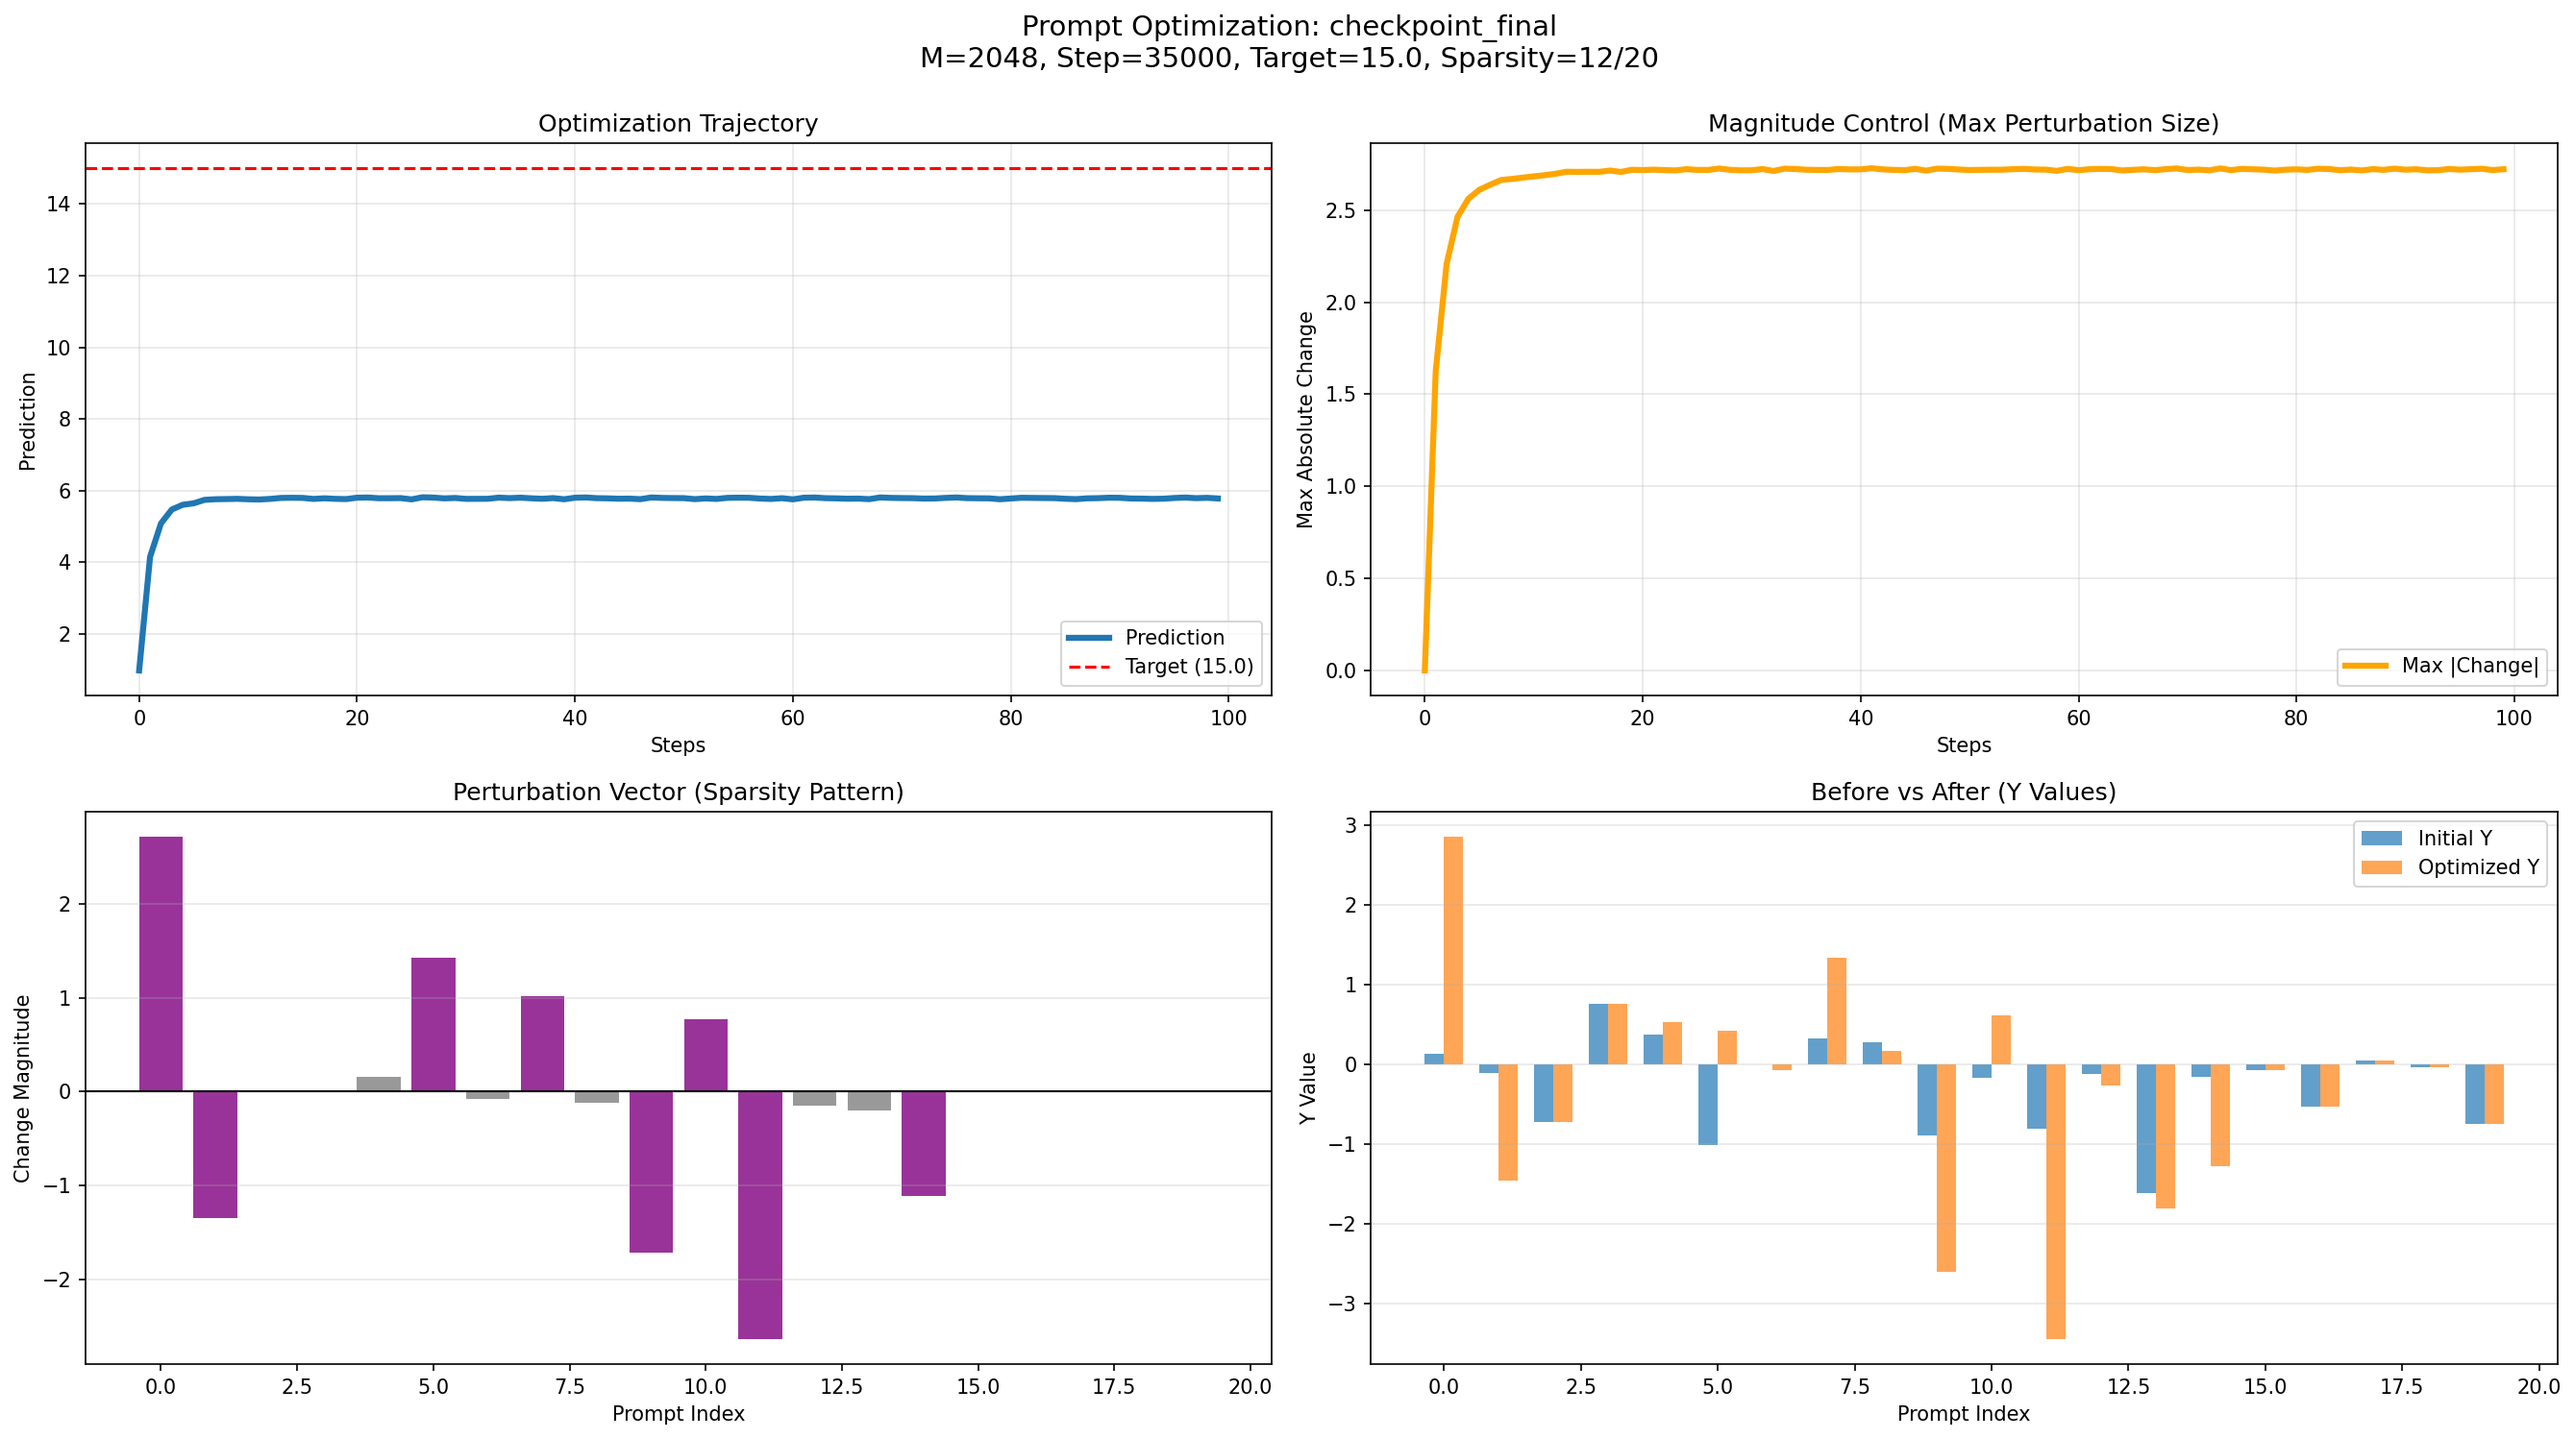
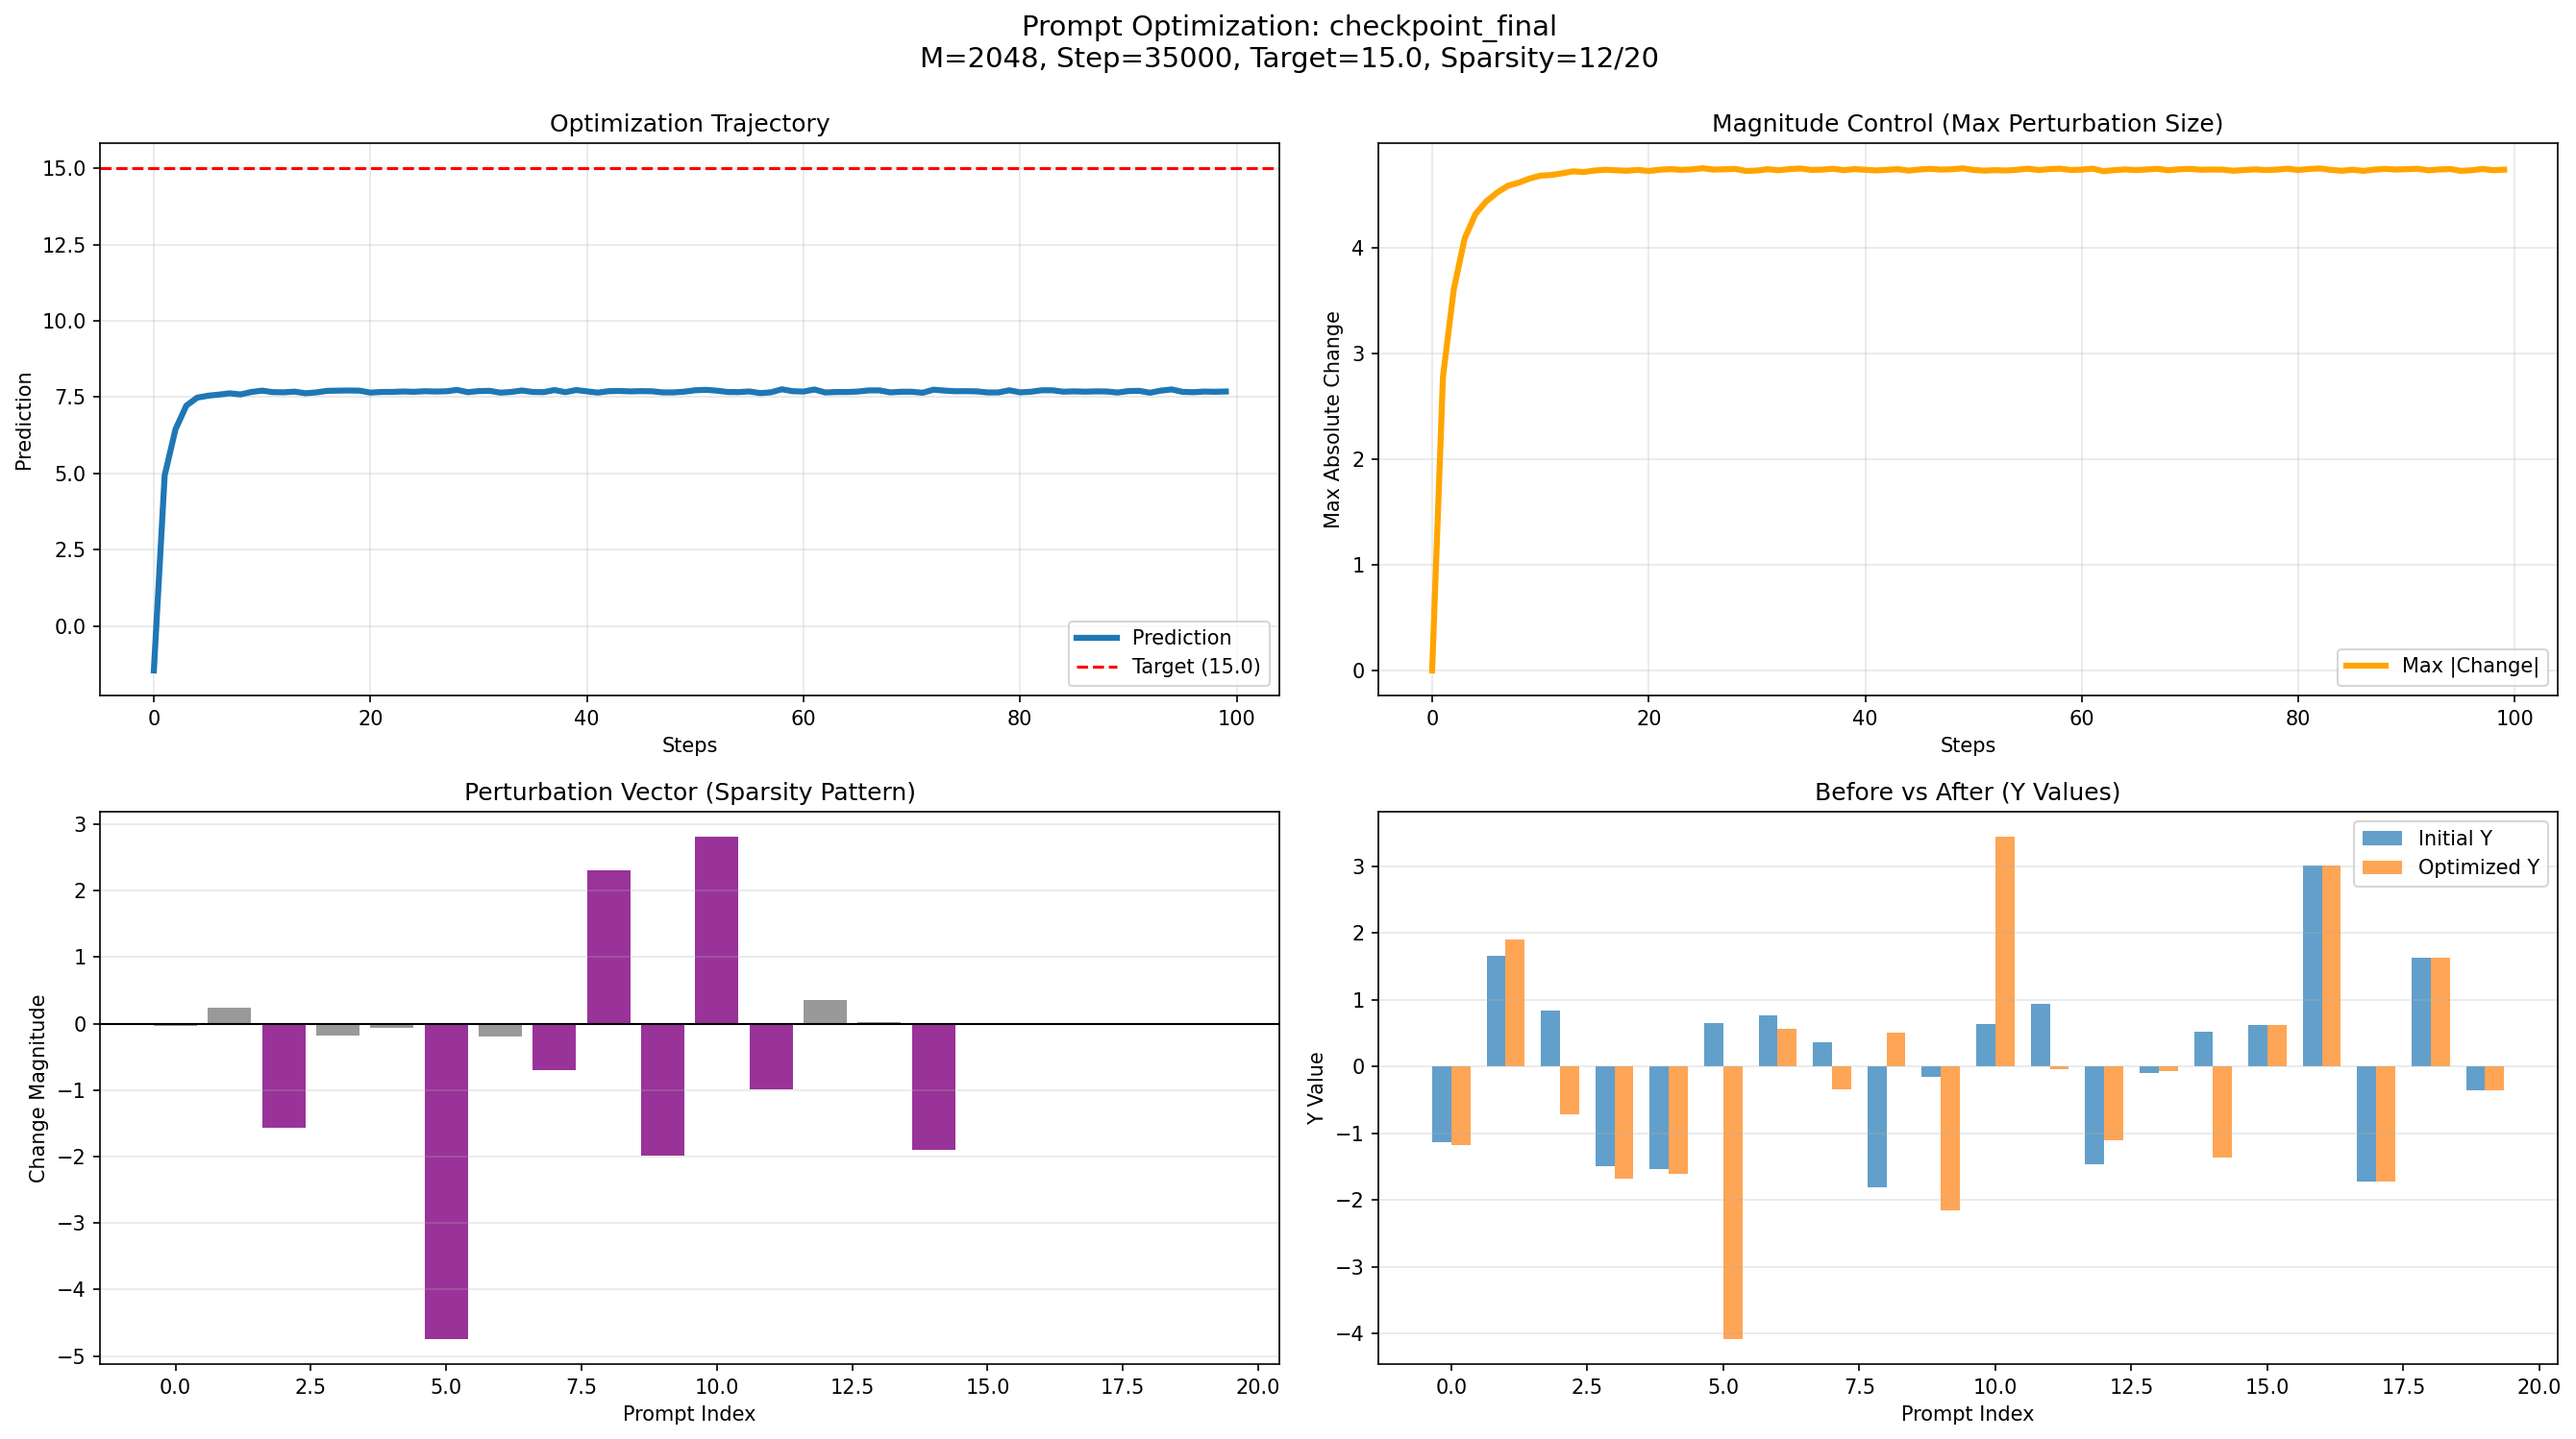
Update prompt optimization to match notebook protocol exactly
- Changed Y initialization to use linear relationship: Y = X @ theta + noise
- Updated gradient descent to match notebook's exact protocol
- Added comments explaining the update rule equivalence
- Regenerated all plots with corrected initialization

diff --git a/optimize_prompt_susceptibility.py b/optimize_prompt_susceptibility.py
@@ -127,10 +127,12 @@ def optimize_prompt_for_checkpoint(
     for param in model.parameters():
         param.requires_grad = False
     
-    # Initialize prompt
+    # Initialize prompt (matching notebook: Y = X @ theta + noise)
     D = cfg.D
     x_context = torch.randn(n_prompt, D, device=device)
-    y_context = torch.randn(n_prompt, device=device)
+    true_theta = torch.randn(D, 1, device=device)
+    noise = 0.1 * torch.randn(n_prompt, 1, device=device)
+    y_context = (x_context @ true_theta + noise).squeeze(1)  # (n_prompt,)
     x_query = torch.randn(1, D, device=device)  # Single query point
     
     # Store initial values
@@ -218,20 +220,21 @@ def optimize_prompt_for_checkpoint(
         # L2: linear in perturbation (magnitude control)
         l2_grad_y = l2_penalty * y_perturbation
         
-        # Combined gradient
-        total_grad_y = y_grad + l1_grad_y + l2_grad_y
-        
-        # Update Y
+        # Update Y (matching notebook protocol)
+        # Notebook uses: Y += lr * (chi_in - l1_grad - l2_grad)
+        # Since chi_in = -loss_grad (gradient to maximize utility = -gradient to minimize loss)
+        # This becomes: Y += lr * (-loss_grad - l1_grad - l2_grad)
+        # Which is: Y -= lr * (loss_grad + l1_grad + l2_grad)
+        # So we use: Y -= lr * (y_grad + l1_grad_y + l2_grad_y)
         with torch.no_grad():
-            y_context.data -= learning_rate * total_grad_y
+            y_context.data -= learning_rate * (y_grad + l1_grad_y + l2_grad_y)
         
-        # Update X if optimizing
+        # Update X if optimizing (same protocol)
         if optimize_x:
             l1_grad_x = l1_penalty * torch.sign(x_perturbation)
             l2_grad_x = l2_penalty * x_perturbation
-            total_grad_x = x_grad + l1_grad_x + l2_grad_x
             with torch.no_grad():
-                x_context.data -= learning_rate * total_grad_x
+                x_context.data -= learning_rate * (x_grad + l1_grad_x + l2_grad_x)
         
         # Track metrics
         current_pred = y_pred.item()
